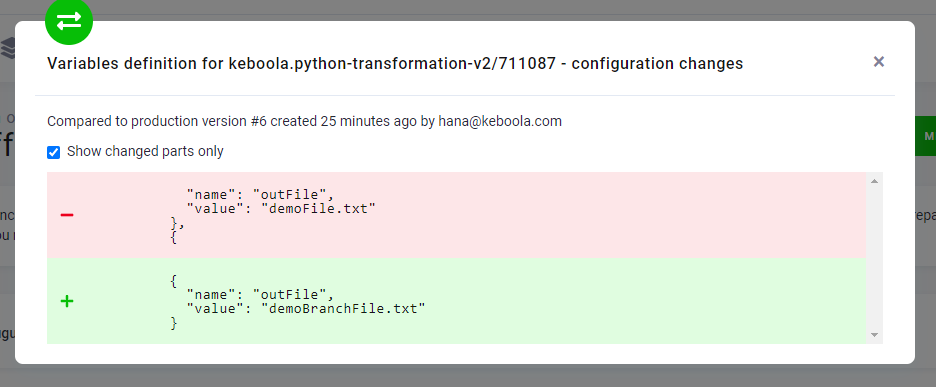
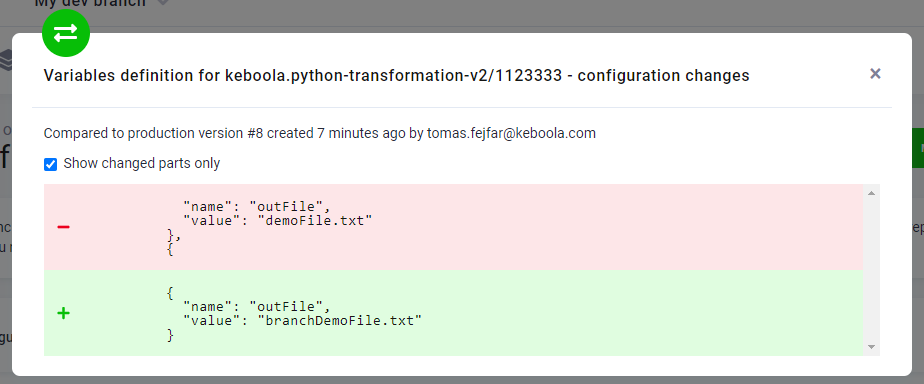
[ci skip] WIP

Changed region(s): [[0.0, 0.0, 1.0, 1.0], [0.0606, 0.75, 0.0909, 0.8438], [0.0606, 0.5312, 0.0909, 0.5938]]

diff --git a/components/development-branches/diff-and-merge/index.md b/components/development-branches/diff-and-merge/index.md
@@ -1,0 +1,19 @@
+---
+title: Diff & Merge
+permalink: /components/development-branches/diff-and-merge/
+---
+
+### Show Project Diff
+First, you want to check what are the things that you changed against the production. Go to the dashboard and click the button **Show Project Diff** on the right. There you can see the things you’ve changed.
+
+{: .image-popup}
+![Screenshot - Project Diff](/components/development-branches/project-diff.png)
+
+To see a detailed diff of the changes to `Variables definition for keboola.python-transformation-v2` configuration, click the three dots on the right and then **Compare with production**.
+
+{: .image-popup}
+![Detailed diff of configuration change](/components/development-branches/18-diff-config-changes-var.png)
+
+Note the message above the project diff. It says that your production storage will not be affected by that merge. This means that tables will not be created in production unless you run the configurations that created them and no data will be transfered from branch to production. You need to keep that in mind - for example if you were to drop a column on a table in the branch, you need to drop that column on the production table as well.
+
+In the next part we'll look at a fairly common scenario of [simultaneous or conflicting changes between production and a branch](/components/development-branches/diff-and-merge/simultaneous-changes).

diff --git a/transformations/dev-prod-mode/dev-prod-mode.md b/transformations/dev-prod-mode/dev-prod-mode.md
@@ -6,18 +6,7 @@ permalink: /transformations/dev-prod-mode/
 * TOC
 {:toc}
 
-### Show Project Diff
-First, you want to check what are the things that you changed against the production. Go to the dashboard and click the button **Show Project Diff** on the right. There you can see the things you’ve changed. 
 
-{: .image-popup}
-![Screenshot - Project Diff](/transformations/dev-prod-mode/tables-project-diff.png)
-
-To see a detailed diff of the changes, click the three dots on the right and then **Compare with production**.
-
-{: .image-popup}
-![Detailed diff of configuration change](/transformations/dev-prod-mode/tables-config-changes.png)
-
-Note the message above the project diff. It says that your production storage will not be affected by that merge. This means that tables will not be created in production unless you run the configurations that created them and no data will be transfered from branch to production. You need to keep that in mind - for example if you were to drop a column on a table in the branch, you need to drop that column on the production table as well. 
 
 ### Conflicting changes
 

diff --git a/components/development-branches/diff-and-merge/simultaneous-changes.md b/components/development-branches/diff-and-merge/simultaneous-changes.md
@@ -1,9 +1,9 @@
 ---
 title: Handling simultaneous changes and conflicts
-permalink: /components/development-branches/merge/simultaneous-changes/
+permalink: /components/development-branches/diff-and-merge/simultaneous-changes/
 ---
 
-###   Simultaneous Changes
+### Simultaneous Changes
 
 Before we proceed to merging the development branch to the production project, there is one more scenario we need
 to mention here. While you are working in your development branch, someone else might be doing changes to your
@@ -11,6 +11,8 @@ production project at the same time.
 
 Let’s see what this might look like. Go to your production branch, to your transformation, and edit the variable
 `outFileContent`. Instead of `Hello world!` write `Hello tester!`, and then click on the blue check icon.
+
+*Note: If you skipped the [file manipulation part](/components/development-branches/files) of the tutorial, you'll need to change your Snowflake transformation instead of the Python transformation.*
 
 {: .image-popup}
 ![Screenshot - Edit Variable in Production](/components/development-branches/22-edit-var-in-prod.png)

diff --git a/components/development-branches/files/in-branch.md b/components/development-branches/files/in-branch.md
@@ -32,12 +32,14 @@ Now it’s time to make the changes to the transformation and test them. Let’s
 **Transformations** and in **Shared Codes**, select *Create a file*. Then click **Edit Code** and **Let’s Change
 the Shared Code**.
 
-{% highlight sql %}
+{% highlight python %}
+{% raw %}
 f = open("out/files/{{ outFile }}", "a")
 f.write("{{ outFileContent }}")
 f.close()
 
 print("Output written to {{ outFile }}")
+{% endraw %}
 {% endhighlight %}
 
 {: .image-popup}
@@ -83,3 +85,7 @@ tag `demoOutput` without any prefix.
 
 {: .image-popup}
 ![Screenshot - Storage File in Production](/components/development-branches/21-storage-files-prod.png)
+
+If you go back to your development and run the transformation, it will create a new file `branchDemoFile.txt` as expected. 
+
+This concludes the file manipulation part of this tutorial. You can continue to the next part - [merging back to production](/components/development-branches/diff-and-merge). 

diff --git a/components/development-branches/tables/in-branch.md b/components/development-branches/tables/in-branch.md
@@ -131,4 +131,4 @@ This means that the second part of your task is done. All the work you did is no
 You can now choose. You can:
 
 * take the next step and learn about [how files work in development branches](/components/development-branches/files/)
-* skip ahead and learn about [how changes in a branch are merged back to production](/components/development-branches/merge-to-production)
+* skip ahead and learn about [how changes in a branch are merged back to production](/components/development-branches/diff-and-merge)

diff --git a/components/development-branches/index.md b/components/development-branches/index.md
@@ -25,4 +25,4 @@ In the next steps, we will create and configure various components to demonstrat
 
 * [Working with tables](/components/development-branches/tables/)
 * [Working with files](/components/development-branches/files/)
-* [Merging branches](/components/development-branches/merge-to-production/)
+* [Merging branches](/components/development-branches/diff-and-merge/)
